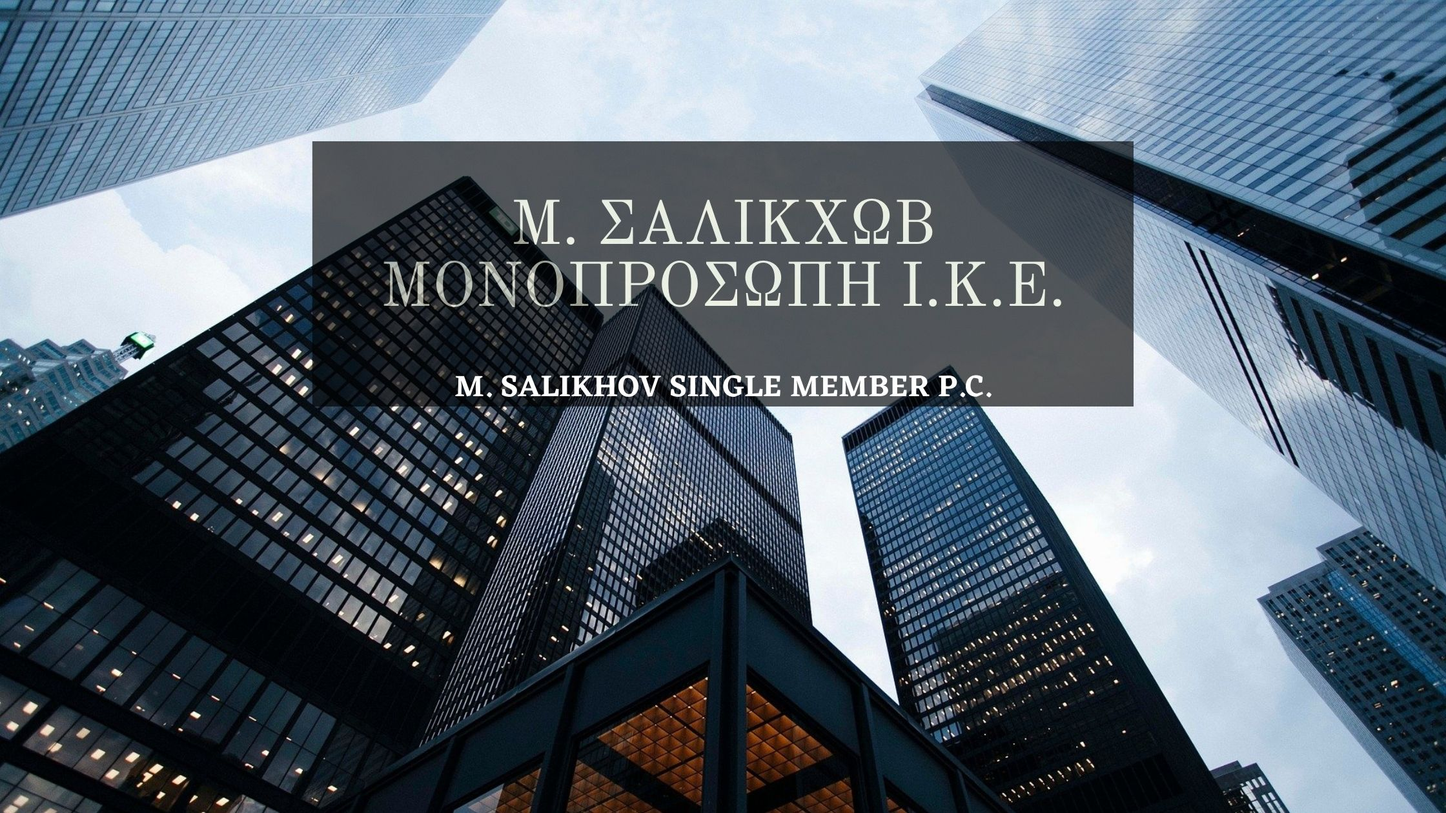
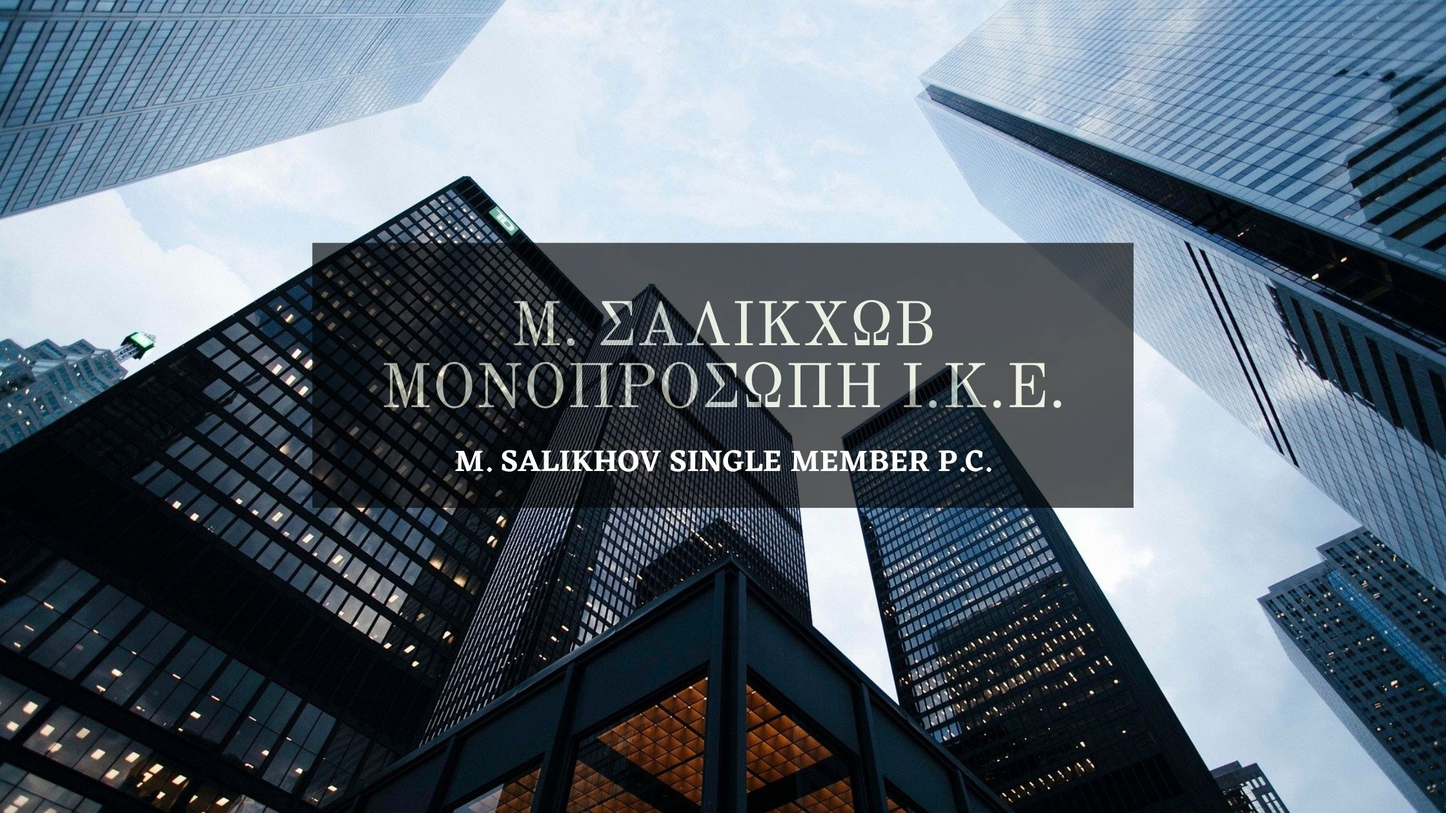
Minor changes made to a responsive mode

Changed region(s): [[0.2188, 0.1548, 0.7812, 0.65]]

diff --git a/css/styles.css b/css/styles.css
@@ -275,14 +275,21 @@ video {
 }
 @media (max-width: 767px) {
   .header {
-    height: 90px;
+    height: 100px;
   }
   .header-items {
-    min-width: 100%;
-    font-size: 10px;
-    margin-left: -30px;
-    padding-top: 15px;
-    padding-bottom: 10px;
+    display: flex;
+    justify-content: center;
+    width: 100%;
+    font-size: 9px;
+    margin-left: -35px;
+    line-height: 5px;
+  }
+  .header-items:first-child {
+    padding-top: 20px;
+  }
+  .header-items:last-child {
+    padding-bottom: 15px;
   }
   .header:before {
     height: 100px;
@@ -290,7 +297,7 @@ video {
   }
   .logo {
     height: 60px;
-    margin: 10px 10px 10px 10px;
+    margin: 20px 10px 10px 10px;
     flex: 0 0 60px;
     border-radius: 50%;
     overflow: hidden;
@@ -301,8 +308,14 @@ video {
   }
   .hero img {
     display: block;
+    margin-top: 50px;
     width: 100%;
-    height: 320px;
+    height: auto;
+  }
+  .public-image {
+    width: 100%;
+    height: auto;
+    margin-left: 9px;
   }
   .info-section {
     text-align: center;

diff --git a/index.html b/index.html
@@ -67,7 +67,6 @@
 <li>ΕΤΑΙΡΙΚΟ ΚΕΦΑΛΑΙΟ: € 450.000,00, που διαιρείται σε σαράντα πέντε χιλιάδες <br>εταιρικά μερίδια κεφαλαιακών εισφορών, ονομαστικής αξίας δέκα
 ευρώ (€ 10,00) το καθένα</li>
 <li>ΜΟΝΑΔΙΚΟΣ ΕΤΑΙΡΟΣ: Schwarzwald Partners Limited</li>
-<li>ΔΙΕΥΘΥΝΣΗ: Αναστασίου Μακρή 2, 66131, Δράμα, Ελλάδα</li>
 <li>ΗΜΕΡΟΜΗΝΙΑ ΛΗΞΕΩΣ ΤΗΣ ΠΡΩΤΗΣ ΔΙΑΧΕΙΡΙΣΤΙΚΗΣ ΠΕΡΙΟΔΟΥ: 31/12/2020</li>
 </ul>
 </div>
